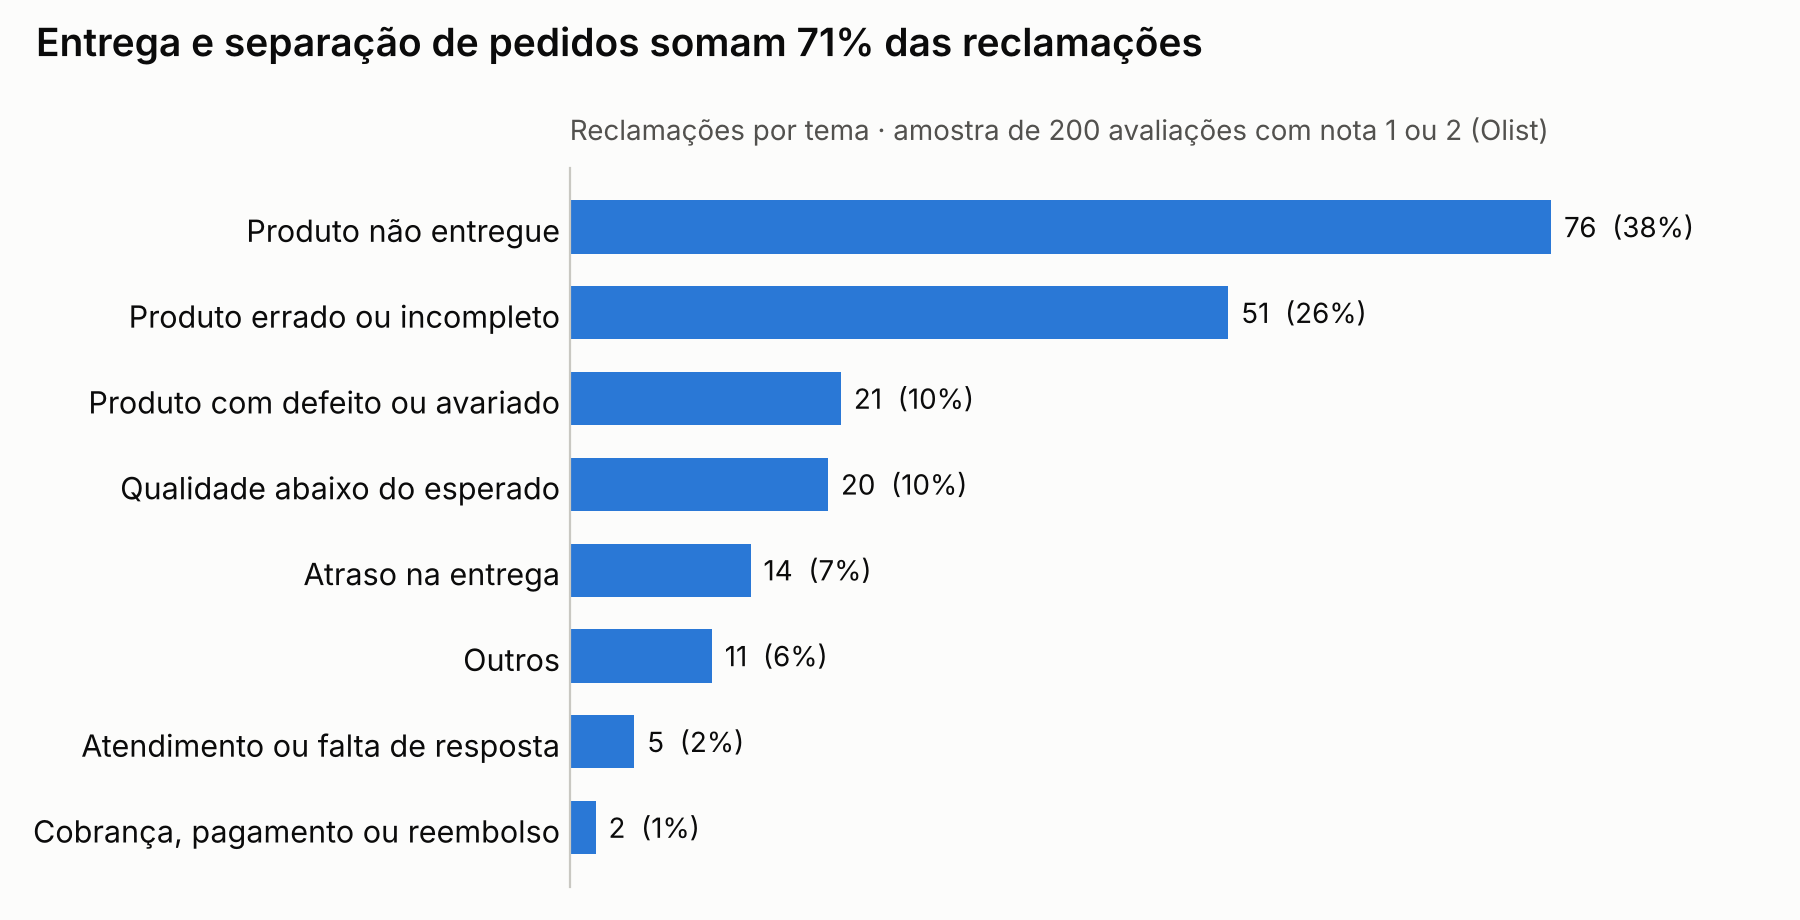
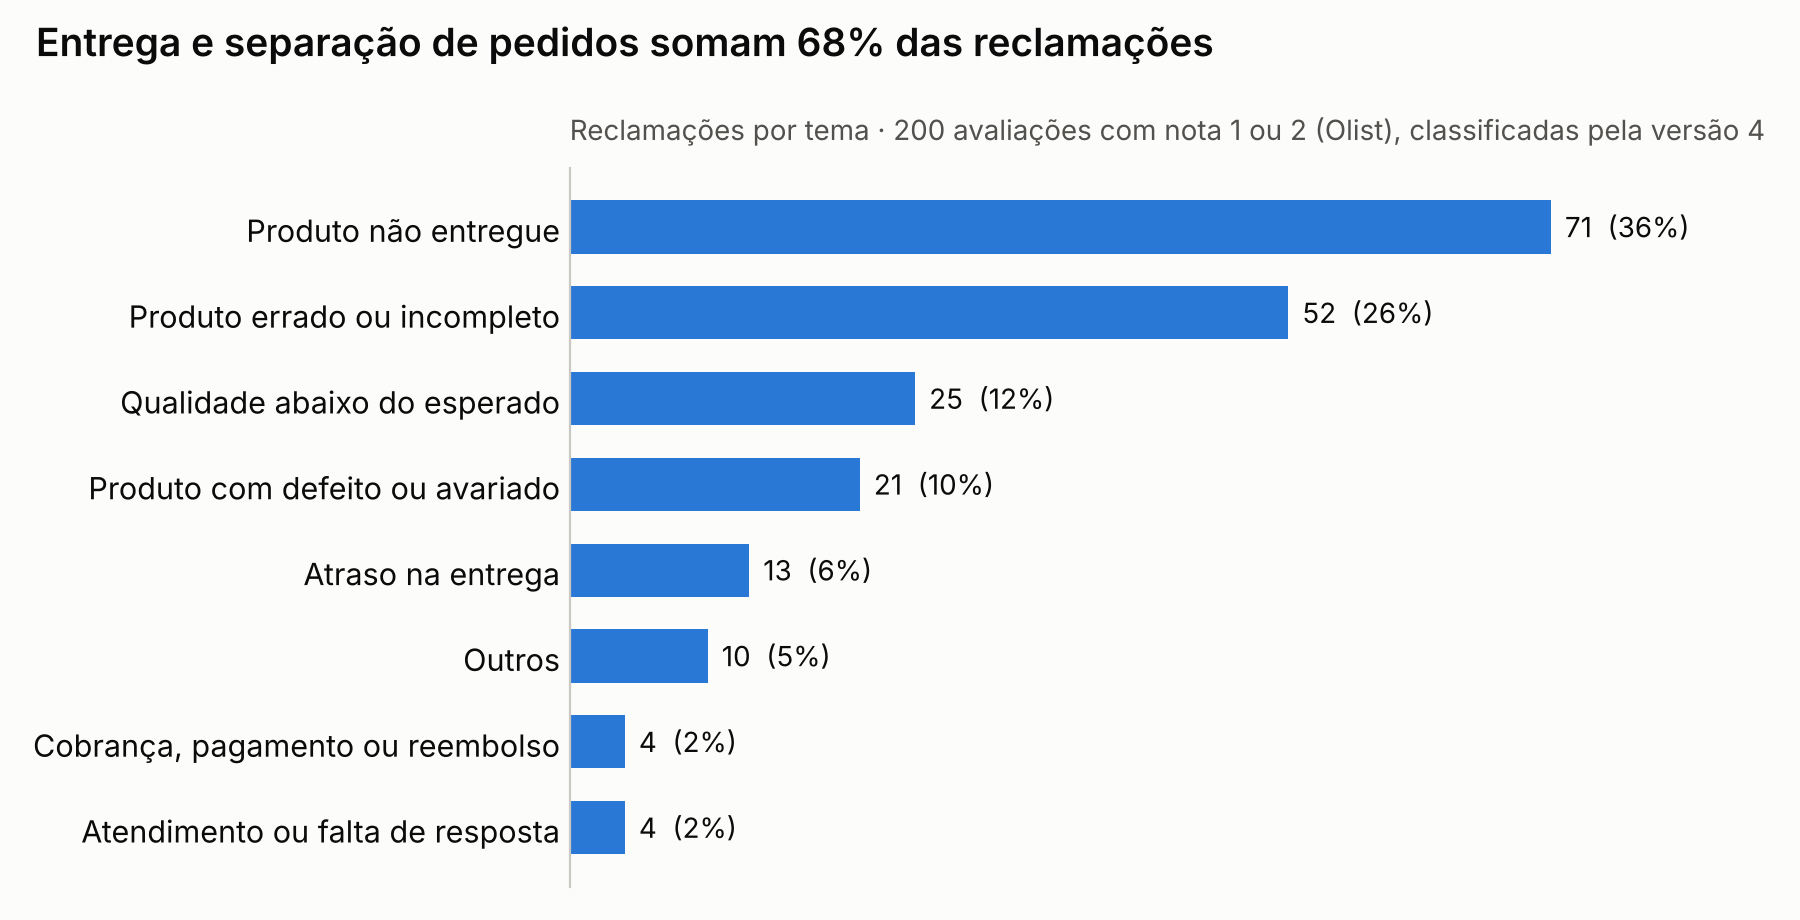
Versão 4: guia de classificação no prompt e comparação de modelos
Notebook 02 com teste em 30 reclamações novas, comparação gpt-4o-mini x
gpt-5.4-mini (acerto e custo), classificação final v4 e gráficos atualizados.

Claude-Session: https://claude.ai/code/session_01CvJimMAFMoJse3eoRSFc6P

diff --git a/graficos.py b/graficos.py
@@ -18,8 +18,9 @@ for y, v in enumerate(t.values):
     ax.text(v + 1, y, f"{v}  ({v/n:.0%})", va="center", color=TXT, fontsize=10)
 ax.set_xlim(0, t.max() * 1.22); ax.set_xticks([]); ax.spines["bottom"].set_visible(False)
 ax.tick_params(axis="y", length=0, colors=TXT)
-fig.suptitle("Entrega e separação de pedidos somam 71% das reclamações", x=0.02, ha="left", fontsize=14, fontweight="semibold", color=TXT)
-ax.set_title(f"Reclamações por tema · amostra de {n} avaliações com nota 1 ou 2 (Olist)", loc="left", color=MUT, fontsize=10, pad=10)
+log = d["tema"].isin(["Produto não entregue", "Produto errado ou incompleto", "Atraso na entrega"]).mean()
+fig.suptitle(f"Entrega e separação de pedidos somam {log:.0%} das reclamações", x=0.02, ha="left", fontsize=14, fontweight="semibold", color=TXT)
+ax.set_title(f"Reclamações por tema · {n} avaliações com nota 1 ou 2 (Olist), classificadas pela versão 4", loc="left", color=MUT, fontsize=10, pad=10)
 fig.tight_layout(); fig.savefig(f"{out}/01_temas.png"); plt.close(fig)
 
 # 2. Matriz de prioridade
@@ -59,3 +60,24 @@ fig.suptitle("Acerto da IA dobrou na classificação por tema", x=0.02, ha="left
 ax.set_title("Concordância com a classificação humana em 20 reclamações novas (validação)", loc="left", color=MUT, fontsize=10, pad=10)
 fig.tight_layout(); fig.savefig(f"{out}/03_acerto_validacao.png"); plt.close(fig)
 print("ok")
+
+# 4. Comparação de versões e modelos (teste com 30 reclamações novas)
+if len(sys.argv) > 3:
+    c = pd.read_csv(sys.argv[3], encoding="utf-8-sig", index_col=0)
+    rot = []
+    for nome, row in c.iterrows():
+        custo = "custo já pago" if pd.isna(row["custo_por_1000"]) else f"US$ {row['custo_por_1000']:.2f} por mil".replace(".", ",")
+        rot.append(f"{nome}\n{custo}")
+    x = np.arange(len(c)); w = 0.34
+    fig, ax = plt.subplots(figsize=(8.6, 4.6), dpi=200)
+    for off, col, cor, nome in [(-w/2 - 0.01, "tema", BLUE, "Tema"), (w/2 + 0.01, "urgencia", ORANGE, "Urgência")]:
+        ax.bar(x + off, c[col], w, color=cor, label=nome)
+        for xi, v in zip(x + off, c[col]):
+            ax.text(xi, v + 0.02, f"{v:.0%}", ha="center", color=TXT, fontsize=11, fontweight="semibold")
+    ax.set_xticks(x, rot, fontsize=10); ax.set_ylim(0, 1)
+    ax.set_yticks([0, .25, .5, .75, 1], ["0%", "25%", "50%", "75%", "100%"])
+    ax.grid(axis="y", color="#e6e5e0", lw=0.8); ax.set_axisbelow(True); ax.tick_params(length=0, colors=TXT)
+    ax.legend(frameon=False, loc="upper left", fontsize=10, ncol=2)
+    fig.suptitle("Regras de negócio melhoraram mais que um modelo 8x mais caro", x=0.02, ha="left", fontsize=14, fontweight="semibold", color=TXT)
+    ax.set_title("Concordância com a classificação humana em 30 reclamações novas (conjunto de teste)", loc="left", color=MUT, fontsize=10, pad=10)
+    fig.tight_layout(); fig.savefig(f"{out}/04_comparacao_modelos.png"); plt.close(fig)

diff --git a/README.md b/README.md
@@ -11,99 +11,120 @@ Empresas de e-commerce e delivery recebem milhares de reclamações por dia. O t
 | Para quem | O que recebe |
 | --- | --- |
 | Gestão do atendimento | Temas que mais geram reclamação e matriz de prioridade (urgência × risco) |
-| Atendente | Resumo do caso, próximo passo sugerido e rascunho de resposta para revisar |
-| Operação e logística | Onde o processo falha: não entrega, erro de separação, avaria |
+| Atendente | Resumo do caso, justificativa da classificação, próximo passo sugerido e rascunho de resposta para revisar |
+| Operação e logística | Onde o processo falha: não entrega, erro de separação, avaria, e quais clientes já procuraram a loja sem solução |
 
 > A resposta sugerida é um **rascunho para um atendente revisar**, nunca um envio automático.
 
-## Principais resultados
+## Resultado em uma frase
+
+**O maior ganho veio de transformar critérios de negócio em regras escritas, e não de trocar por um modelo mais caro:** com um guia de classificação, o `gpt-4o-mini` chegou a 80% de concordância com a pessoa na urgência, enquanto o `gpt-5.4-mini`, 8 vezes mais caro, ficou em 67%.
+
+![Comparação de versões e modelos](04_comparacao_modelos.png)
+
+## Principais achados
 
 ![Reclamações por tema](01_temas.png)
 
-- **71% das reclamações vêm de entrega e separação de pedidos:** produto não entregue (38%), errado ou incompleto (26%) e atraso (7%). O maior ganho está na operação, não no atendimento.
+- **68% das reclamações vêm de entrega e separação de pedidos:** produto não entregue (36%), errado ou incompleto (26%) e atraso (6%). O maior ganho está na operação, não no atendimento.
+- **Em 36 reclamações (18%), o cliente já tinha procurado a loja sem solução:** a operação falhou duas vezes com o mesmo cliente.
 
 ![Matriz de prioridade](02_matriz_prioridade.png)
 
-- **98 de 200 reclamações combinam urgência alta e risco alto de perder o cliente.** É a fila de "atender hoje".
-- **24 casos têm urgência alta, mas risco médio:** o cliente precisa de solução rápida, mas ainda não fala em abandonar a loja.
+- **47 de 200 reclamações combinam urgência alta e risco alto de perder o cliente.** É a fila de "atender hoje".
+- **74 casos têm urgência alta, mas risco médio:** o cliente precisa de solução rápida, mas ainda não fala em abandonar a loja. Na versão 1, o risco apenas copiava a urgência; separar os dois deixou a fila prioritária menor e mais útil.
 
 ## Como a qualidade foi medida
 
-Uma IA que classifica sem ser avaliada é só uma opinião. Por isso:
+Uma IA que classifica sem ser avaliada é só uma opinião. Por isso, cada versão do prompt foi comparada com uma classificação humana feita sem ver a resposta da IA, em três conjuntos separados de reclamações:
 
-1. **Gabarito humano:** classifiquei manualmente 30 reclamações (tema e urgência), sem ver a resposta da IA.
-2. **Três versões do prompt**, cada uma ajustada a partir dos erros da anterior.
-3. **Validação justa:** como as versões 2 e 3 foram ajustadas olhando o gabarito, medi o resultado final em **20 reclamações novas**, que nenhuma versão do prompt tinha visto.
-
-| Versão do prompt | Gabarito (30, usado no ajuste) | Validação (20 novas) |
+| Conjunto | Tamanho | Para que serve |
 | --- | --- | --- |
-| 1 — instruções básicas | tema 60% · urgência 50% | tema 30% · urgência 60% |
-| 2 — definição de cada tema | tema 70% · urgência 63% | — |
-| 3 — critérios de negócio para urgência | tema 77% · urgência 73% | **tema 60% · urgência 75%** |
+| Gabarito | 30 | Encontrar os erros e ajustar os prompts das versões 2 e 3 |
+| Validação | 20 | Medir a versão 3 em casos que o ajuste não viu |
+| Teste | 30 | Medir a versão 4 e comparar os modelos em casos totalmente novos |
+
+**Evolução do acerto** (concordância com a classificação humana):
+
+| Versão do prompt | Gabarito (30) | Validação (20 novas) | Teste (30 novas) |
+| --- | --- | --- | --- |
+| 1 — instruções básicas | tema 60% · urgência 50% | tema 30% · urgência 60% | — |
+| 2 — definição de cada tema | tema 70% · urgência 63% | — | — |
+| 3 — critérios de negócio para urgência | tema 77% · urgência 73% | tema 60% · urgência 75% | tema 67% · urgência 73% |
+| **4 — guia de classificação** (`gpt-4o-mini`) | — | — | **tema 70% · urgência 80%** |
+| 4 — guia de classificação (`gpt-5.4-mini`) | — | — | tema 70% · urgência 67% |
 
 ![Acerto na validação](03_acerto_validacao.png)
 
 **O que mudou de uma versão para outra:**
 - **Versão 2:** cada tema ganhou uma definição. A IA confundia *atraso* (o produto chegou fora do prazo) com *não entregue* (o cliente ainda espera), o que muda a prioridade do caso.
-- **Versão 3:** a urgência passou a seguir um critério de gestão: **o cliente que pagou e ficou sem o que comprou é prioridade alta**, mesmo que o problema seja "só" um item errado. O risco de perder o cliente ganhou critérios próprios; na versão 1, ele apenas copiava a urgência.
+- **Versão 3:** a urgência passou a seguir um critério de gestão: **o cliente que pagou e ficou sem o que comprou é prioridade alta**, mesmo que o problema seja "só" um item errado. O risco de perder o cliente ganhou critérios próprios.
+- **Versão 4:** a análise humana dos erros virou um [guia de classificação](GUIA_DE_CLASSIFICACAO.md), usado igual pela pessoa e pelo prompt:
+  - **Sinais de tempo no texto mudam a prioridade:** "estou aguardando o produto" é urgência baixa (pode estar no prazo); "**ainda** estou esperando" é média; "**já passou do prazo**" ou "**até hoje** não recebi" é alta.
+  - **Com mais de um problema, o tema é o de maior prioridade.**
+  - **Campo novo "cliente procurou a loja":** o tema fica sendo o problema de origem, e a falta de resposta da loja é registrada à parte.
+  - Seis exemplos resolvidos no prompt e uma **justificativa curta antes da resposta**, que também ajuda o atendente a conferir.
 
-## Limitações e próximos passos
+## Custo e escolha do modelo
 
-- **5 dos 8 erros de tema na validação são o mesmo caso:** o cliente já procurou a loja e não teve resposta. A pessoa classifica como *atendimento*; a IA, pelo problema de origem. Os dois ângulos são válidos. A melhoria é um campo separado, **"cliente já procurou a loja: sim/não"**, que mostra onde a operação falhou duas vezes com o mesmo cliente.
-- **61% dos casos ficaram com urgência alta.** Quando quase tudo é urgente, a urgência sozinha não prioriza. Por isso a fila combina urgência e risco.
-- **A classificação humana também varia:** casos parecidos de "ainda estou esperando" receberam urgências diferentes no gabarito. Critérios escritos no prompt ajudam a padronizar o atendimento.
-- **Amostra pequena:** 200 reclamações classificadas e 50 avaliadas à mão. Os percentuais são indicativos.
+| Modelo (versão 4) | Tema | Urgência | Custo por mil reclamações |
+| --- | --- | --- | --- |
+| `gpt-4o-mini` | 70% | 80% | US$ 0,30 |
+| `gpt-5.4-mini` | 70% | 67% | US$ 2,41 |
 
-## Em andamento: versão 4
+O modelo maior custa 8 vezes mais e não melhorou o resultado neste problema. A classificação final usa o `gpt-4o-mini`. Em uma operação com 1 milhão de reclamações, a diferença seria de cerca de US$ 300 contra US$ 2.400.
 
-A análise dos erros da validação gerou um [guia de classificação](GUIA_DE_CLASSIFICACAO.md) com regras de negócio que o prompt ainda não tinha:
+## Limitações
 
-- **Sinais de tempo no texto mudam a prioridade:** "estou aguardando o produto" é urgência baixa (pode estar no prazo); "**ainda** estou esperando" é média; "**já passou do prazo**" ou "**até hoje** não recebi" é alta.
-- **Com mais de um problema, o tema é o de maior prioridade.**
-- **Campo novo "cliente procurou a loja":** o tema fica sendo o problema de origem, e a falta de resposta da loja é registrada à parte.
-
-A versão 4 usa esse guia no prompt, com exemplos resolvidos e uma justificativa curta antes da resposta, e compara `gpt-4o-mini` com `gpt-5.4-mini` em acerto **e custo por mil reclamações**, medindo tudo em um conjunto de teste novo, com 30 reclamações.
+- **Amostra pequena:** com 30 casos no teste, cada erro vale cerca de 3 pontos. A diferença entre as versões 3 e 4 no mesmo teste é de 1 acerto no tema e 2 na urgência: a direção é boa, mas os percentuais são indicativos.
+- **Parte dos erros é ambígua até para uma pessoa:** "demora muito pra chegar" pode ser atraso ou não entregue. A classificação humana também varia, e por isso critérios escritos ajudam a padronizar o atendimento.
+- **Urgência alta ainda é a maioria (61%).** Quando quase tudo é urgente, a urgência sozinha não prioriza; por isso a fila combina urgência e risco.
 
 ## Próximas evoluções
 
 - **Página em Streamlit:** o atendente cola uma reclamação e recebe a classificação e o rascunho de resposta.
 - **Cruzamento com as outras tabelas da Olist em SQL** (pedidos, produtos, vendedores e prazos), para saber quais vendedores, categorias e regiões geram mais reclamações.
-- **Escala:** API em lote (Batch) e saída estruturada com esquema, com o custo calculado para grandes volumes.
+- **Escala:** API em lote (Batch) e saída estruturada com esquema.
+- **Avaliação das respostas sugeridas**, com critérios como empatia e não prometer prazos.
 
 ## Como funciona
 
 ```
 Avaliações Olist (99 mil) → filtro: nota 1 ou 2 com comentário (10 mil)
-→ amostra aleatória de 200 → API da OpenAI (gpt-4o-mini, JSON estruturado)
-→ planilha classificada → avaliação contra o gabarito humano → gráficos
+→ amostra aleatória de 200 → API da OpenAI (JSON estruturado)
+→ planilha classificada → avaliação contra a classificação humana → gráficos
 ```
 
-- **Modelo:** `gpt-4o-mini`, com `temperature=0` (respostas consistentes) e saída em JSON garantida.
-- **Custo:** a classificação das 200 reclamações custou centavos de dólar.
+- **Modelos:** `gpt-4o-mini` com `temperature=0`; `gpt-5.4-mini` com `reasoning_effort="low"` (modelos com raciocínio não aceitam `temperature`).
+- **Custo:** registrado por chamada a partir dos tokens usados.
 - **Segurança:** a chave da API fica nos *Secrets* do Colab e nunca aparece no código.
 
 ## Arquivos
 
 | Arquivo | Conteúdo |
 | --- | --- |
-| `01_classificacao_reclamacoes.ipynb` | Notebook completo: dados, prompts v1 a v3, avaliação e classificação final |
-| `reclamacoes_classificadas.csv` | Resultado da versão 1 do prompt (ponto de partida) |
-| `reclamacoes_classificadas_final.csv` | As 200 reclamações classificadas pela versão final (v3) |
+| `01_classificacao_reclamacoes.ipynb` | Versões 1 a 3: dados, prompts, gabarito, validação e classificação |
+| `02_versao4_comparacao_modelos.ipynb` | Versão 4: guia no prompt, teste e comparação de modelos e custos |
+| `GUIA_DE_CLASSIFICACAO.md` | Regras de tema e urgência escritas a partir da análise humana dos erros |
+| `reclamacoes_classificadas_v4.csv` | As 200 reclamações classificadas pela versão final (v4, `gpt-4o-mini`) |
+| `reclamacoes_classificadas_final.csv` | As 200 reclamações classificadas pela versão 3 |
+| `reclamacoes_classificadas.csv` | Resultado da versão 1 (ponto de partida) |
 | `gabarito_preenchido.csv` | Classificação humana das 30 reclamações usadas no ajuste |
 | `validacao_preenchido.csv` | Classificação humana das 20 reclamações de validação |
-| `GUIA_DE_CLASSIFICACAO.md` | Regras de tema e urgência escritas a partir da análise humana dos erros |
+| `teste_preenchido.csv` | Classificação humana das 30 reclamações do teste final |
+| `comparacao_modelos.csv` | Acerto, custo e tempo de cada combinação no teste |
 | `graficos.py` | Gera os gráficos deste README |
 
 ## Como rodar
 
-1. Abra o notebook no Google Colab.
+1. Abra os notebooks no Google Colab.
 2. Crie o segredo `OPENAI_API_KEY` em *Secrets* (ícone 🔑) e ative o acesso ao notebook.
-3. Baixe `olist_order_reviews_dataset.csv` da base [Brazilian E-Commerce Public Dataset by Olist](https://www.kaggle.com/datasets/olistbr/brazilian-ecommerce) e envie para o Colab.
+3. Para o notebook 01, baixe `olist_order_reviews_dataset.csv` da base [Brazilian E-Commerce Public Dataset by Olist](https://www.kaggle.com/datasets/olistbr/brazilian-ecommerce) e envie para o Colab. O notebook 02 usa o `reclamacoes_classificadas_final.csv` gerado pelo 01.
 4. Rode as células na ordem.
 
 ## Tecnologias
 
-Python · Pandas · OpenAI API · engenharia de prompt · Matplotlib · Google Colab
+Python · Pandas · OpenAI API · engenharia de prompt · avaliação de modelos · Matplotlib · Google Colab
 
 ## Dados
 
